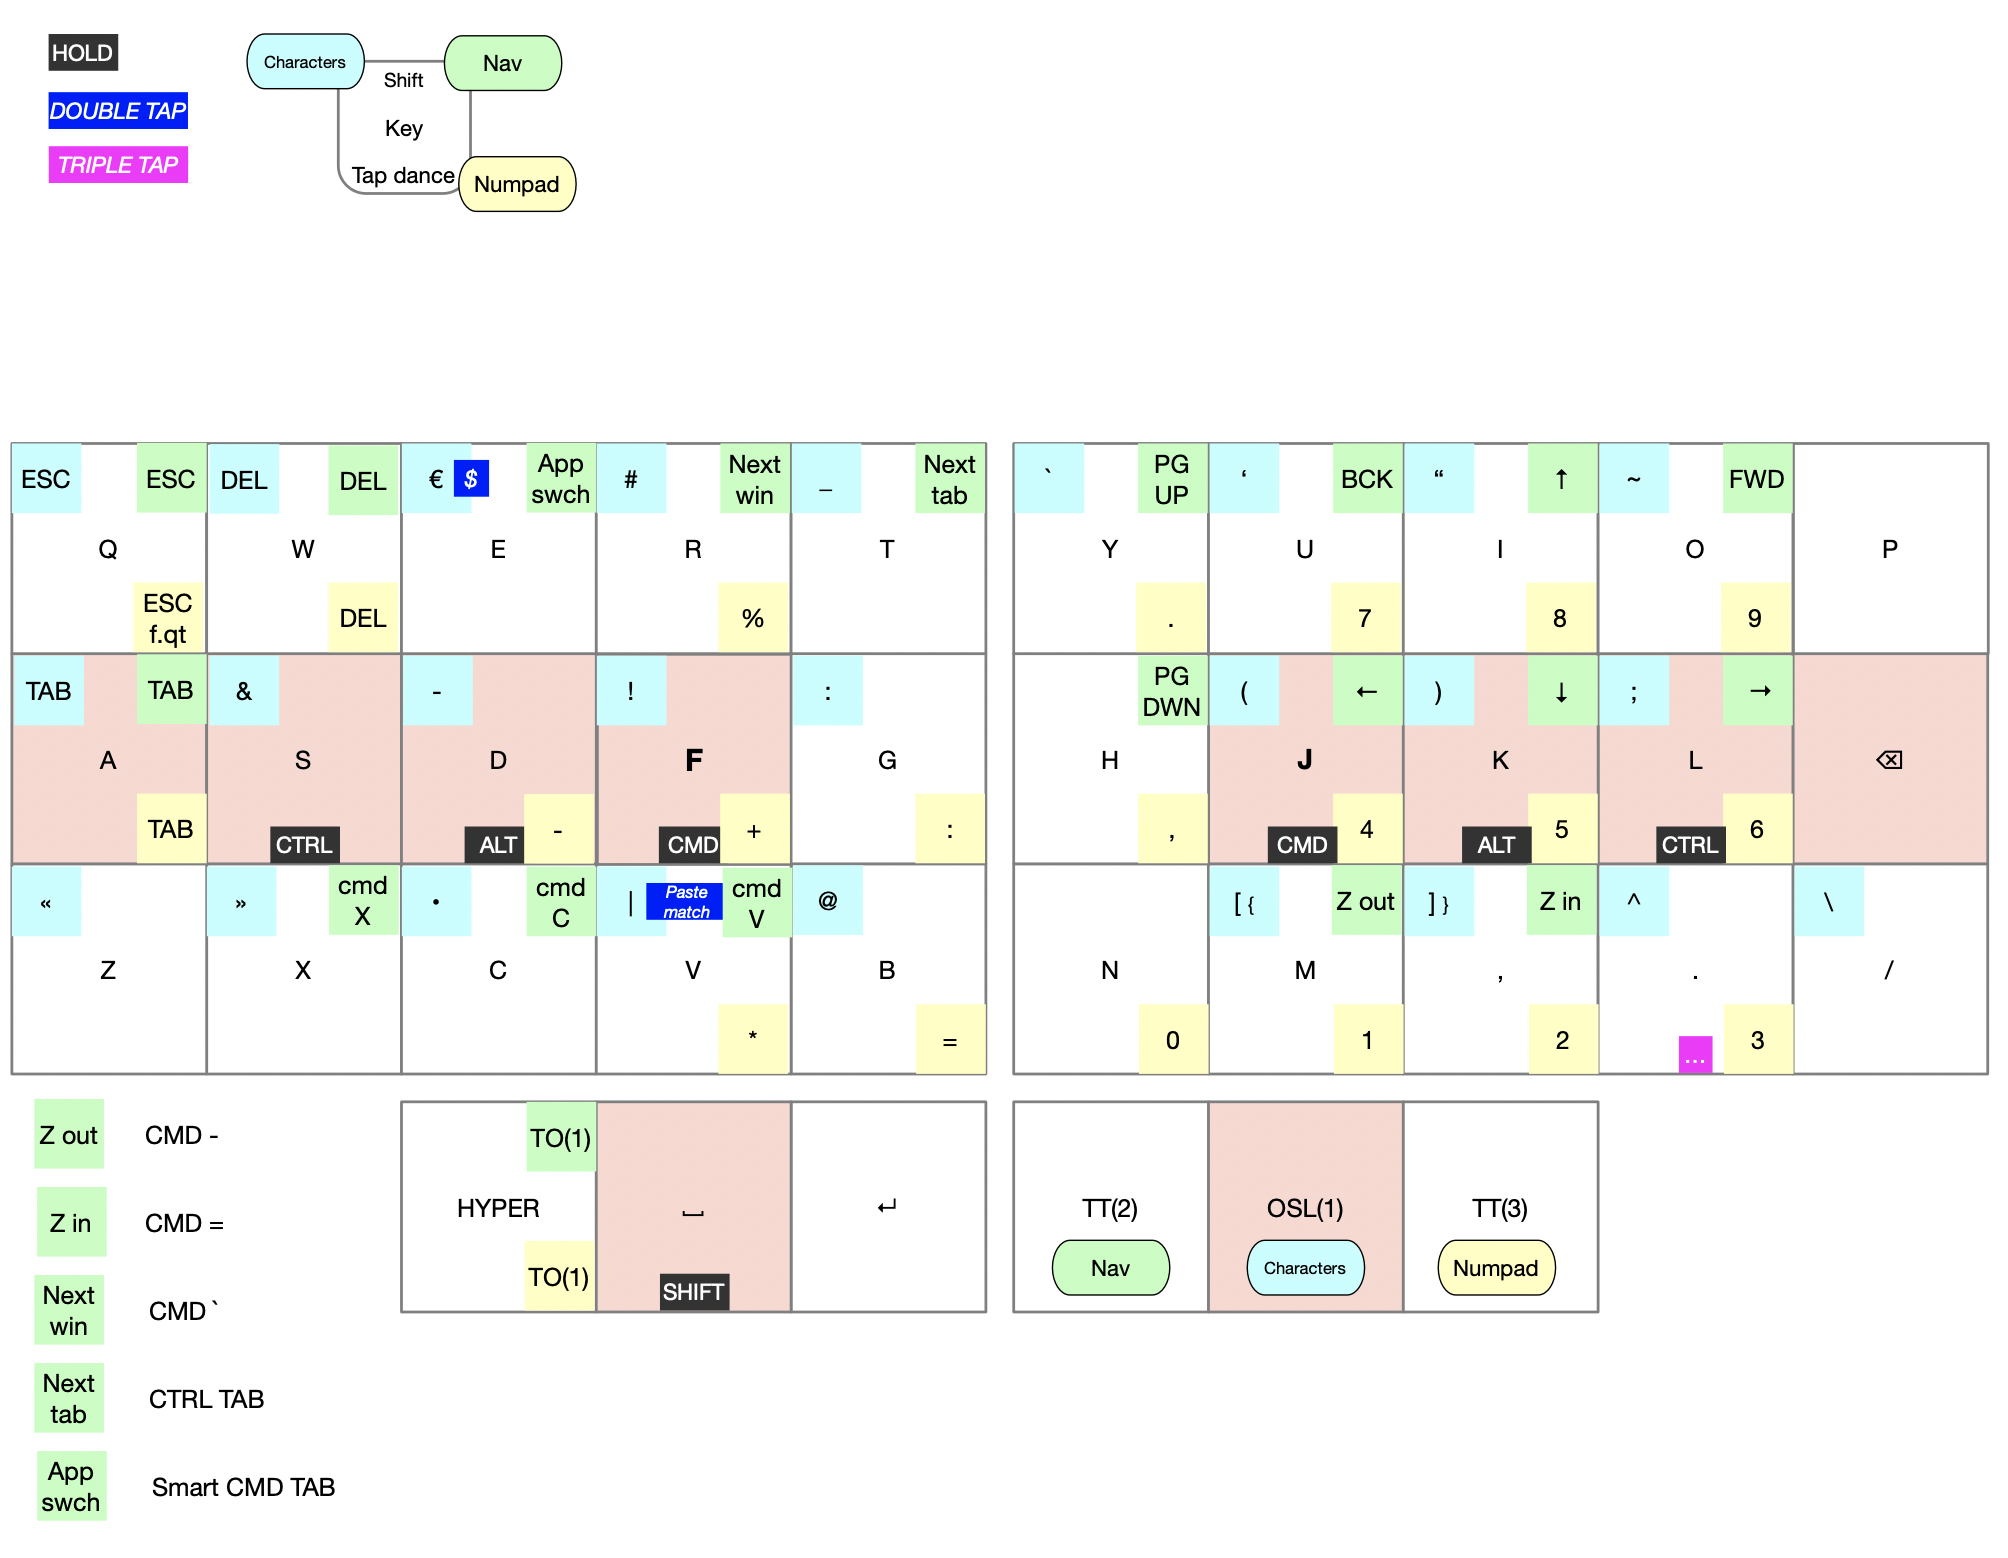
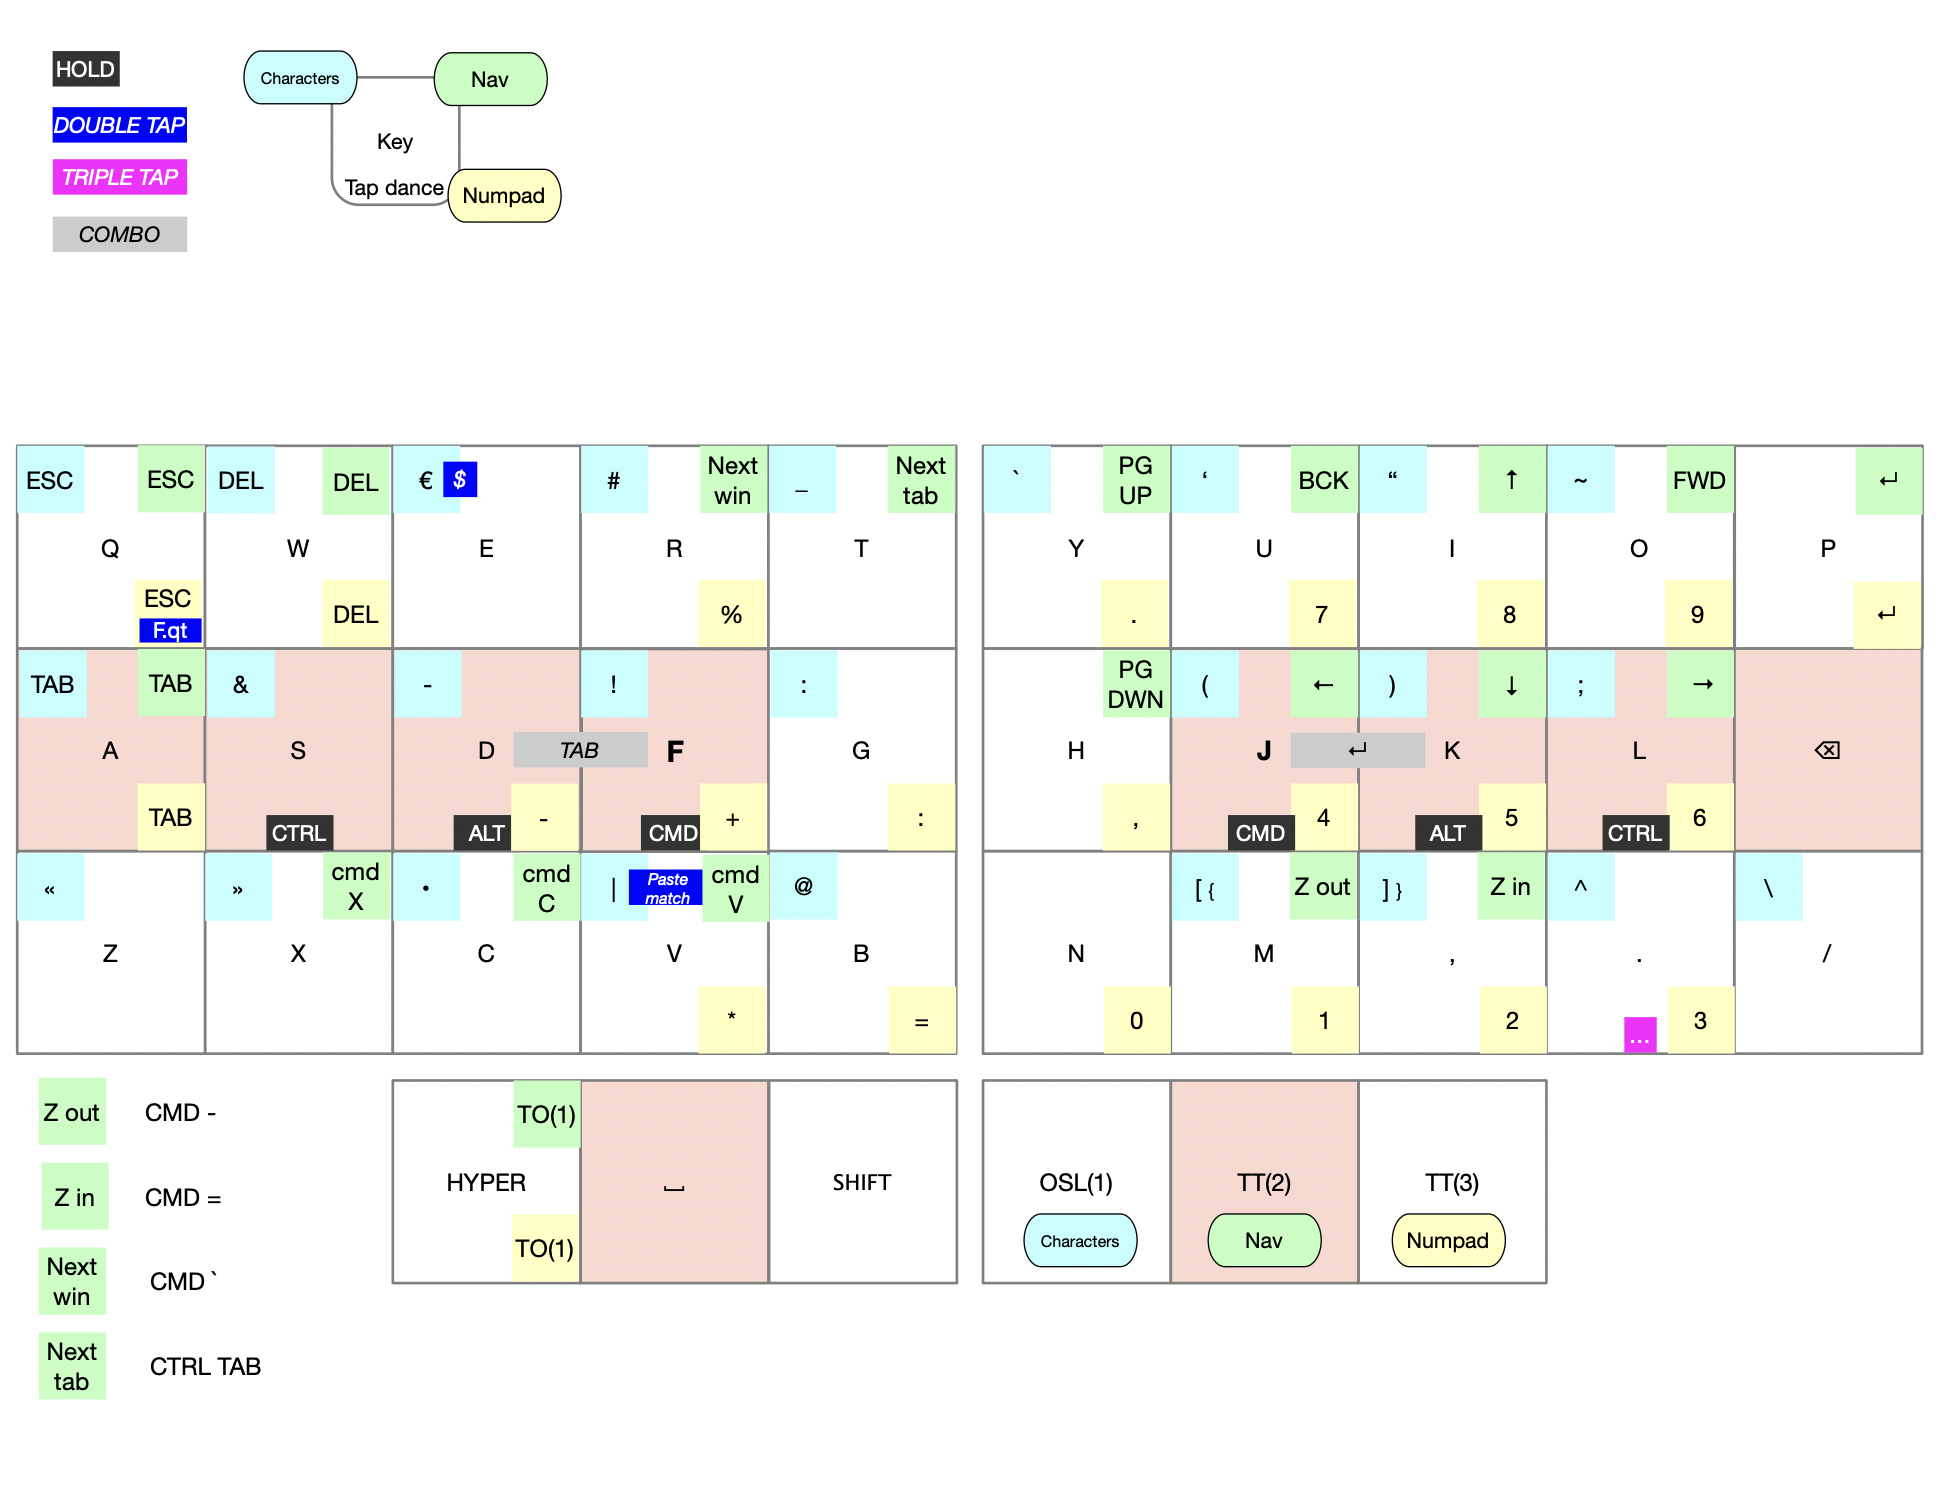
Reinstated combos

diff --git a/definekeys.c b/definekeys.c
@@ -45,8 +45,8 @@
 // Thumb cluster
 
 #define KR_0_4_1 KC_HYPR
-#define KR_0_4_2 SFT_T(KC_SPACE)
-#define KR_0_4_3 KC_ENTER
+#define KR_0_4_2 KC_SPACE
+#define KR_0_4_3 KC_LSFT
 #define KR_0_4_4 OSL(1)
 #define KR_0_4_5 TT(2)
 #define KR_0_4_6 TT(3)
@@ -109,7 +109,7 @@
 
 #define KR_2_1_1 KC_ESC
 #define KR_2_1_2 KC_DEL
-#define KR_2_1_3 CMD_TAB
+#define KR_2_1_3 KC_NO
 #define KR_2_1_4 LGUI(KC_GRV)
 #define KR_2_1_5 LCTL(KC_TAB)
 //
@@ -117,7 +117,7 @@
 #define KR_2_1_7 LGUI(KC_LBRC)
 #define KR_2_1_8 KC_UP
 #define KR_2_1_9 LGUI(KC_RBRC)
-#define KR_2_1_10 KC_NO
+#define KR_2_1_10 KC_ENTER
 
 
 #define KR_2_2_1 KC_TAB
@@ -168,7 +168,7 @@
 #define KR_3_1_7 KC_7
 #define KR_3_1_8 KC_8
 #define KR_3_1_9 KC_9
-#define KR_3_1_10 KC_NO
+#define KR_3_1_10 KC_ENTER
 
 
 #define KR_3_2_1 KC_TAB
@@ -202,5 +202,5 @@
 #define KR_3_4_3 KC_TRNS
 //
 #define KR_3_4_4 OSL(1)
-#define KR_3_4_5 TT(2)
-#define KR_3_4_6 TT(3)
+#define KR_3_4_5 TO(2)
+#define KR_3_4_6 TO(3)

diff --git a/combos.c b/combos.c
@@ -1,0 +1,19 @@
+// COMBOS
+
+enum combos {
+  DF_CBO,
+  JK_CBO,
+  COMBO_LENGTH
+};
+
+uint16_t COMBO_LEN = COMBO_LENGTH;
+
+const uint16_t PROGMEM df_combo[]   = {LALT_T(KC_D), LGUI_T(KC_F), COMBO_END};
+const uint16_t PROGMEM jk_combo[]   = {RGUI_T(KC_J), RALT_T(KC_K), COMBO_END};
+
+combo_t key_combos[] = {
+    // D+F = TAB
+    [DF_CBO] = COMBO(df_combo, KC_TAB),
+    // J+K = ENTER
+    [JK_CBO] = COMBO(jk_combo, KC_ENT),
+};

diff --git a/keymap.c b/keymap.c
@@ -17,9 +17,8 @@ along with this program.  If not, see <http://www.gnu.org/licenses/>.
 
 #include QMK_KEYBOARD_H
 
-// #include "combos.c"
+#include "combos.c"
 #include "tapdance.c"
-#include "specialkeys.c"
 #include "definekeys.c"
 
 const uint16_t PROGMEM keymaps[][MATRIX_ROWS][MATRIX_COLS] = {

diff --git a/README.md b/README.md
@@ -9,8 +9,6 @@ With this [QMK](https://beta.docs.qmk.fm) keymap I try to accomplish a couple of
 - Easy sync between my [Microdox](https://boardsource.xyz/store/5f2e7e4a2902de7151494f92) and [Moonlander](https://www.zsa.io/moonlander/) ([my Moonlander keymap](https://github.com/reinier/moonlander-mk1)) by adding an extra mapping in `definekeys.c`
 - Minimize pinky use on both sides for ergonomic reasons
 
-I've tried combos for TAB and ENTER on DF and JK and it felt pretty good but for now I try to map my keyboard without combos for ergonomic reasons.
-
 How it looks now:
 
 ![Keymap microdox](./keymap.png?raw=true)
